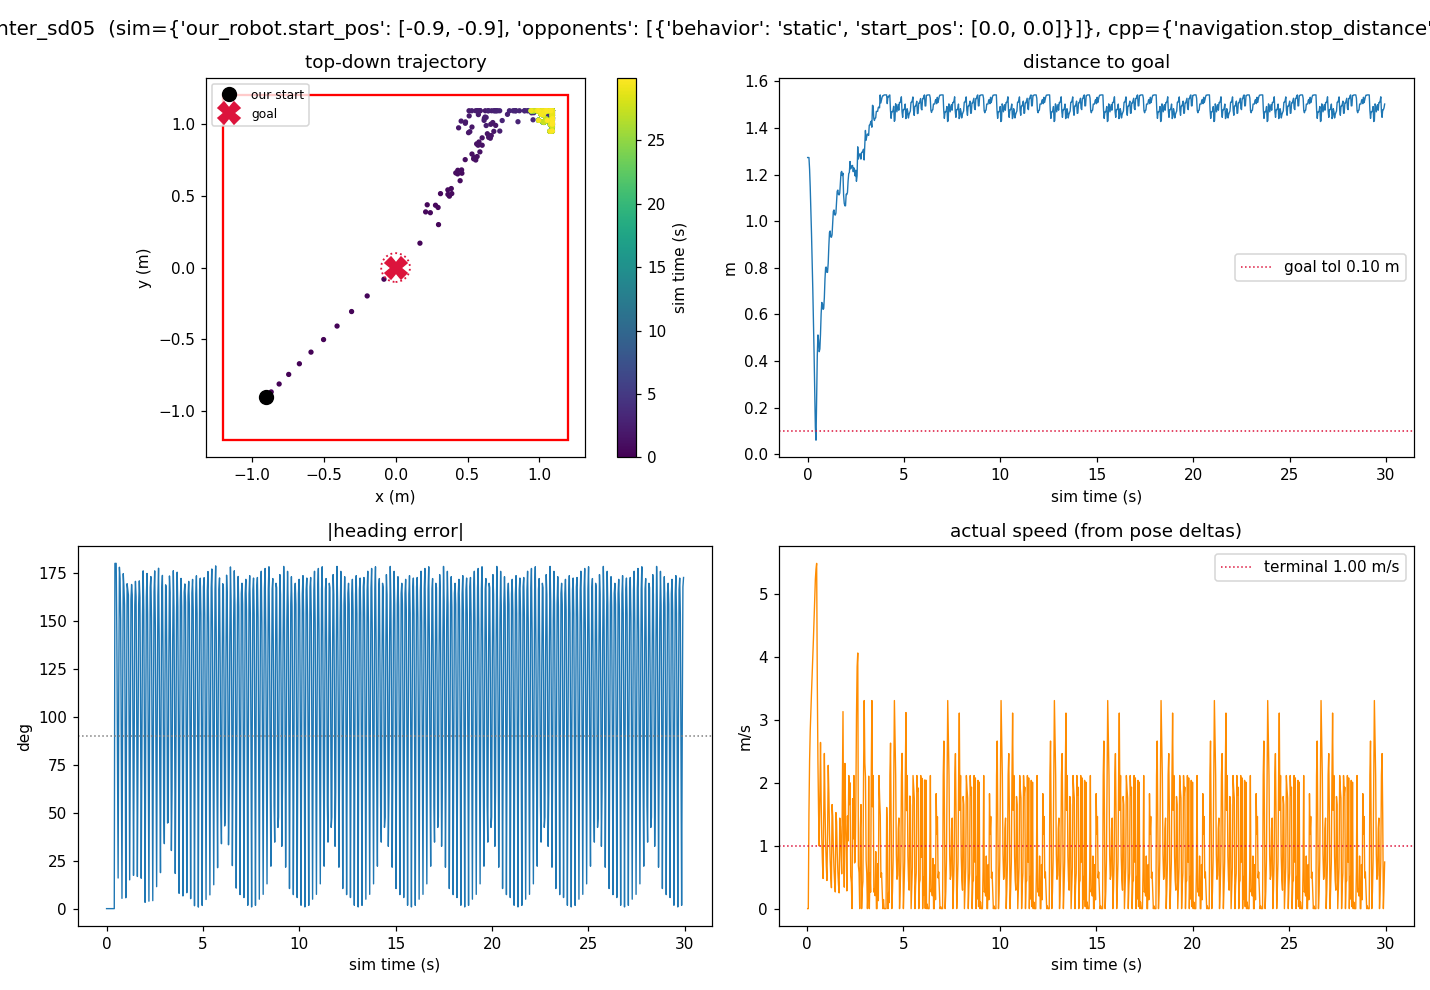
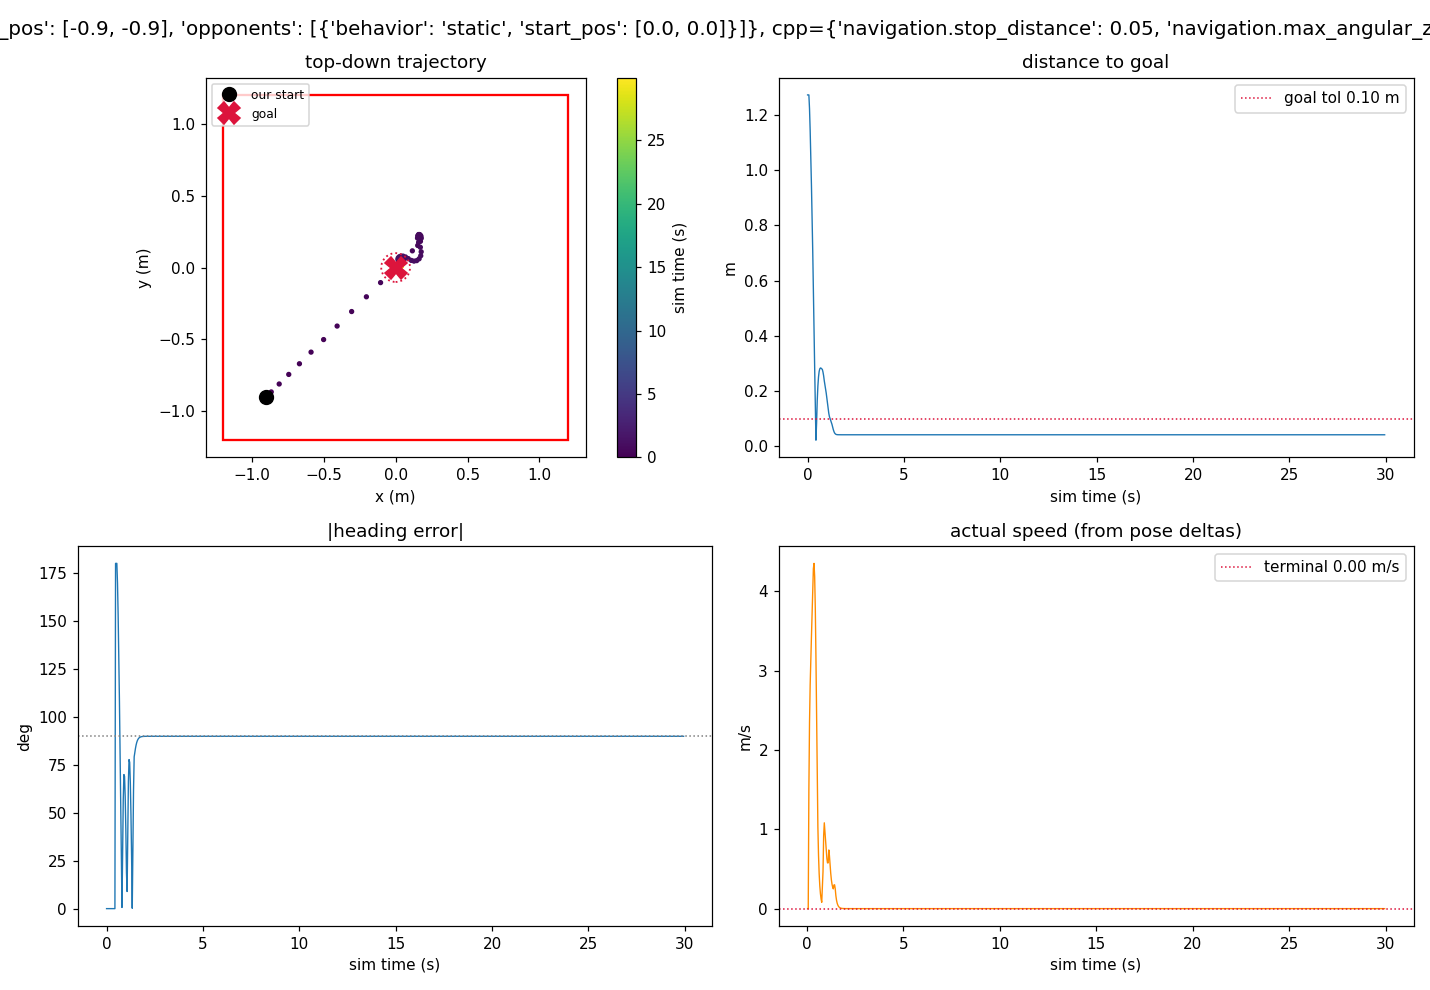
add brake distance

diff --git a/src/navigation/pursuit_navigation.cpp b/src/navigation/pursuit_navigation.cpp
@@ -22,6 +22,7 @@ PursuitNavigation::PursuitNavigation(const PursuitNavigationConfiguration &confi
       velocity_ramp_far_distance_(config.velocity_ramp_far_distance),
       velocity_ramp_near_distance_(config.velocity_ramp_near_distance),
       velocity_ramp_min_scale_(config.velocity_ramp_min_scale),
+      brake_distance_(config.brake_distance),
       wall_reverse_distance_(config.wall_reverse_distance),
       wall_reverse_min_speed_(config.wall_reverse_min_speed),
       wall_heading_threshold_(config.wall_heading_threshold),
@@ -210,6 +211,13 @@ double PursuitNavigation::compute_linear_velocity(double angle_error, double dis
                              (velocity_ramp_far_distance_ - velocity_ramp_near_distance_);
             speed_scale = 1.0 - t * (1.0 - velocity_ramp_min_scale_);
         }
+    }
+
+    // Coast-aware brake: within brake_distance of the target, ramp the commanded speed linearly to zero
+    // so the robot decelerates into the goal instead of driving in at full speed and coasting past it.
+    // brake_distance should cover the stopping lead (latency travel + coast). 0 disables (ram behavior).
+    if (brake_distance_ > 0.0 && distance < brake_distance_) {
+        speed_scale *= distance / brake_distance_;
     }
 
     const double turn_scale = 1.0 - (std::abs(angle_error) / angle_threshold_) * 0.5;

diff --git a/include/navigation/config.hpp b/include/navigation/config.hpp
@@ -35,6 +35,12 @@ struct PursuitNavigationConfiguration : public NavigationConfiguration {
     /** Speed scale applied at distances >= velocity_ramp_far_distance (0..1, fraction of max). */
     double velocity_ramp_min_scale = 0.5;
 
+    /** Coast-aware brake: within this distance (m) of the target, the commanded speed ramps linearly
+     * down to zero so the robot decelerates into the goal instead of driving in at full speed and
+     * coasting past it. Should cover the stopping lead (latency travel + coast distance). 0 disables
+     * (ram behavior: full speed into contact). */
+    double brake_distance = 0.0;
+
     /** Distance from any field wall at which linear_x is reversed to back away (m).
      *  0 = disabled. */
     double wall_reverse_distance = 0.0;
@@ -79,6 +85,7 @@ struct PursuitNavigationConfiguration : public NavigationConfiguration {
         PARSE_FIELD_DOUBLE(velocity_ramp_far_distance)
         PARSE_FIELD_DOUBLE(velocity_ramp_near_distance)
         PARSE_FIELD_DOUBLE(velocity_ramp_min_scale)
+        PARSE_FIELD_DOUBLE(brake_distance)
         PARSE_FIELD_DOUBLE(wall_reverse_distance)
         PARSE_FIELD_DOUBLE(wall_reverse_min_speed)
         PARSE_FIELD_DOUBLE(wall_heading_threshold)

diff --git a/include/navigation/pursuit_navigation.hpp b/include/navigation/pursuit_navigation.hpp
@@ -105,6 +105,7 @@ class PursuitNavigation : public NavigationInterface {
     double velocity_ramp_far_distance_;
     double velocity_ramp_near_distance_;
     double velocity_ramp_min_scale_;
+    double brake_distance_;
     double wall_reverse_distance_;
     double wall_reverse_min_speed_;
     double wall_heading_threshold_;

diff --git a/docs/experiments/control_improvement/control_improvement_plan.md b/docs/experiments/control_improvement/control_improvement_plan.md
@@ -169,9 +169,25 @@ One scalar per scenario, plus the diagnostics behind it:
   **Baseline (current `PursuitNavigation` on the calibrated plant): it cannot stop on the goal.** It reaches
   within ~6 cm but arrives at ~5 m/s and overshoots 0.4-1.5 m, ending 0.55-1.84 m from the goal, still
   moving in 4 of 5 runs, and bouncing off walls in the overshoot. This is the number Stage 2 must beat.
-- **Stage 2 (next): baseline control law.** Implement option 1 (pursuit + feedforward + coast-aware brake)
-  on top of the existing `PursuitNavigation`. The Stage 1b baseline shows why: the controller drives at full
-  speed to the goal with no brake lead, so it coasts ~0.5 m past. Validate the zero-velocity stop in sim.
+- **Stage 2 (in progress): baseline control law.** Three fixes to `PursuitNavigation`, validated on the
+  zero-velocity stop in sim:
+  1. **Turn hysteresis lock.** `apply_hysteresis` re-committed the turn sign on every flip, so at a ~180 deg
+     overshoot (goal directly behind) it chattered left-right under latency and never completed the turn.
+     Now it commits once and holds until the error drops below the release threshold.
+  2. **Angular command cap** (`max_angular_z`). At the calibrated 61.5 rad/s a committed turn rotates ~116
+     deg per 30 Hz tick and overshoots the heading into walls. Capping the command (0.25 -> ~15 rad/s
+     effective) keeps the turn stable.
+  3. **Coast-aware brake** (`brake_distance`, new config, default 0 = ram). Within `brake_distance` of the
+     target the commanded speed ramps to zero, so the robot decelerates into the goal instead of blasting
+     through the stop zone at 5.6 m/s and coasting past. The existing velocity ramp did the opposite (full
+     speed when close, for ramming).
+
+  Result on `goto_stop.toml` (calibrated plant, 5.6 m/s / 61.5 rad/s kept): terminal position error dropped
+  from 0.55-1.84 m to 0.04-0.22 m, terminal velocity to 0, wall contacts from 64-89 to 0-1. The robot now
+  drives in, overshoots ~0.26 m, turns and returns, and stops on the goal, the real behavior, converged.
+  These params live in the `goto_stop` scenario overrides for now; promote `max_angular_z` and
+  `brake_distance` to `main.toml` for the real robot's stop missions. Feedforward/deadzone-lift and the
+  motion-profile tracker are still open (Stage 3).
 - **Stage 3: precise tracker.** Implement option 2 (motion profile + feedforward + PID). Compare against
   the baseline on all three scenarios. Expect this to be the one that meets the precision + optimal-time
   goal.
